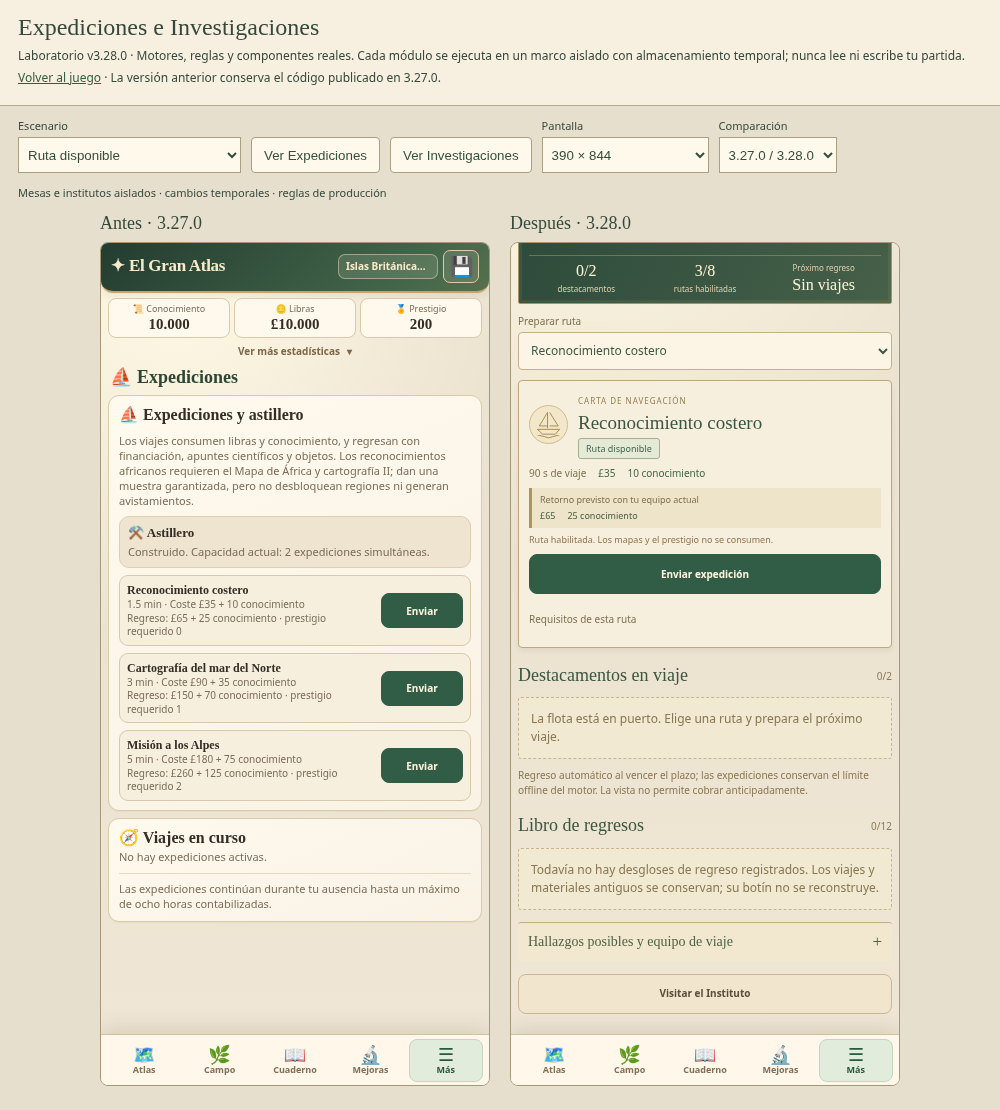
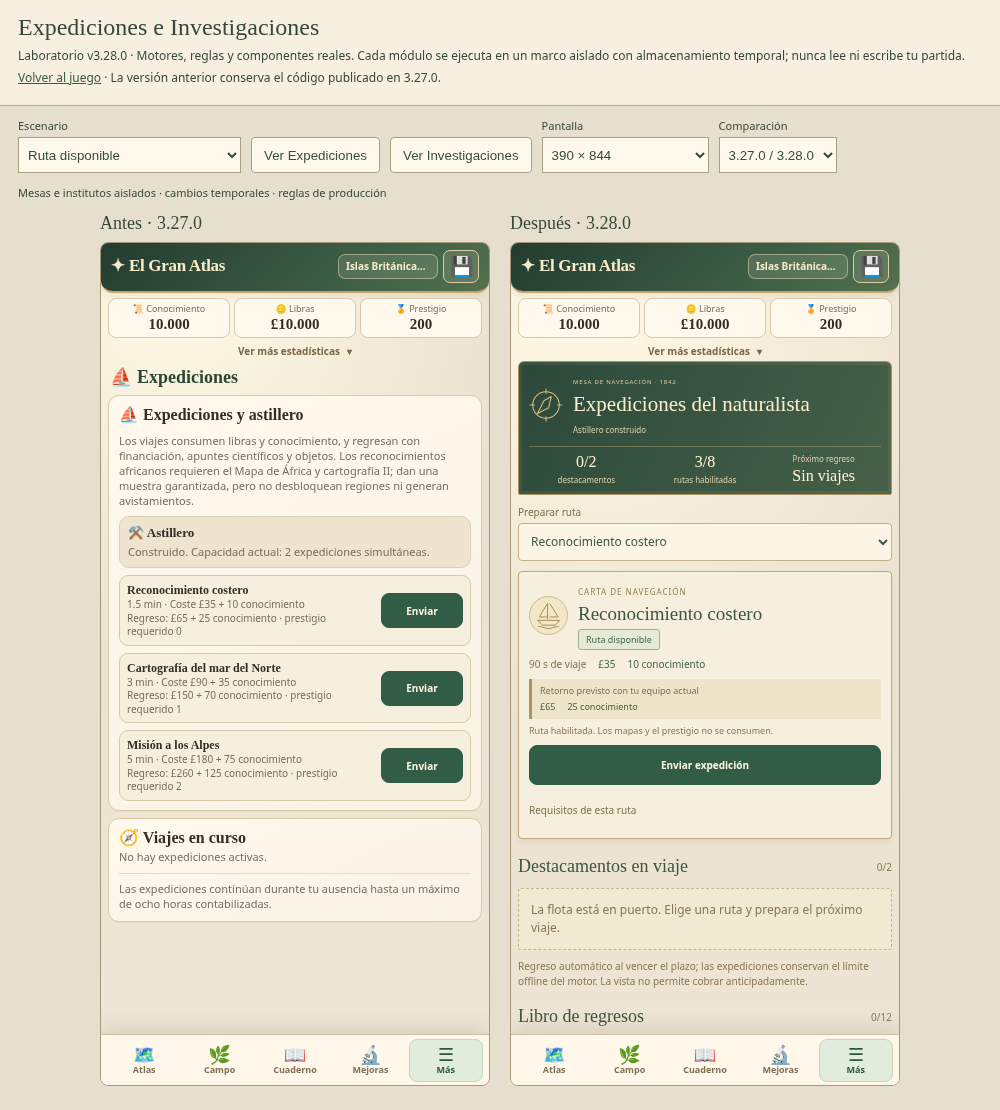
docs: verificar publicación y APK v3.28.0 [skip ci]

Changed region(s): [[0.496, 0.2144, 0.899, 0.9189], [0.868, 0.7351, 0.899, 0.7658], [0.868, 0.582, 0.899, 0.6126]]

diff --git a/README_V3280.md b/README_V3280.md
@@ -65,8 +65,36 @@ La medición usa CPU ×4, una misma partida y secuencia ABBA repetida dos veces.
 
 Preparado para **3.28.0 / Android 32800**, conservando `com.elgranatlas.naturaleza.beta314` y el actualizador seguro con respaldo. Nueva entrada: [actualizar-v3280.html](https://pruizbohle.github.io/gran-atlas-naturaleza/actualizar-v3280.html).
 
-**Antes de publicar:** validación local completada; todavía no se declara éxito de Actions ni disponibilidad del APK 3.28.0. El resultado final se documentará tras verificar ambos workflows, descargar el paquete y comparar su firma con 3.27.0.
+**Publicación verificada el 9 de noviembre de 2026:**
 
-Pendiente no bloqueante: pruebas físicas de instalación, ergonomía y rendimiento Android. La firma debug puede cambiar entre compilaciones; no se garantiza una actualización directa sin comparar el certificado. Exportar el respaldo antes de cambiar de instalación.
+| Entrega | Resultado real |
+| --- | --- |
+| Código y etiqueta | [`7ca276ba4d92e13ed51be71667b663b194d6aae4`](https://github.com/pruizbohle/gran-atlas-naturaleza/commit/7ca276ba4d92e13ed51be71667b663b194d6aae4) en `main`, etiqueta `v3.28.0` |
+| Deploy El Gran Atlas | [SUCCESS · 42655978335](https://github.com/pruizbohle/gran-atlas-naturaleza/actions/runs/42655978335), URL de Pages confirmada |
+| Android APK de prueba | [SUCCESS · 42655978573](https://github.com/pruizbohle/gran-atlas-naturaleza/actions/runs/42655978573), compilación y publicación terminadas |
+| Juego | [El Gran Atlas](https://pruizbohle.github.io/gran-atlas-naturaleza/) |
+| Actualización web segura | [Actualizar 3.28.0 con respaldo previo](https://pruizbohle.github.io/gran-atlas-naturaleza/actualizar-v3280.html) |
+| Laboratorio | [Expediciones e Investigaciones](https://pruizbohle.github.io/gran-atlas-naturaleza/laboratorio-expediciones-investigaciones-v3280.html) |
+| APK descargado y verificado | [El-Gran-Atlas-Beta-3.28.0-debug.apk](https://github.com/pruizbohle/gran-atlas-naturaleza/releases/download/v3.28.0/El-Gran-Atlas-Beta-3.28.0-debug.apk) |
+
+El paquete real mide **6.454.714 bytes**, declara **3.28.0 / 32800** y conserva el ID histórico. Sus **113 archivos web coinciden byte a byte con producción**; ambos plugins nativos de respaldo están presentes en DEX. SHA-256:
+
+```text
[1 lines of base64/hex data omitted]
+```
+
[1 lines of base64/hex data omitted]
+
+[Manifiesto, recursos, plugins y firma](docs/expeditions-research-v3280/android-report.json) · [Registro de publicación](docs/expeditions-research-v3280/release-report.json).
+
+El acceso HTTP directo a `github.io` está bloqueado por el proxy de este entorno (CONNECT 403). Se verificaron el workflow Pages finalizado y su URL real; las comprobaciones visuales, funcionales y offline utilizaron los recursos de producción en Chromium local. No se presenta eso como una visita directa al sitio público.
+
+Pendiente no bloqueante: instalación, ergonomía y rendimiento en Android físico. Permanecen documentados los incrementos de tiempo, memoria y serialización medidos; no se alteró el balance para mejorar cifras.
 
 Esta entrega cierra la renovación de presentación de los módulos actuales. La serie **GM — Globo Mundial** queda como siguiente etapa; no se inicia en esta versión.
+
+## Archivos y alcance de la entrega
+
+[Lista completa de archivos modificados](docs/expeditions-research-v3280/files-changed.txt). Producción se concentra en la presentación de los dos módulos, los bloques `E-3280`, estilos, laboratorio y metadatos/offline. Los fixtures científicos e históricos no se cambian; las comprobaciones anteriores se ajustan solo a metadatos de versión y a las diferencias autorizadas y verificadas por las nuevas pruebas.
+
+El commit documental final registrará los resultados de Actions y del APK sin cambiar los recursos de producción ni volver a compilar el paquete.
